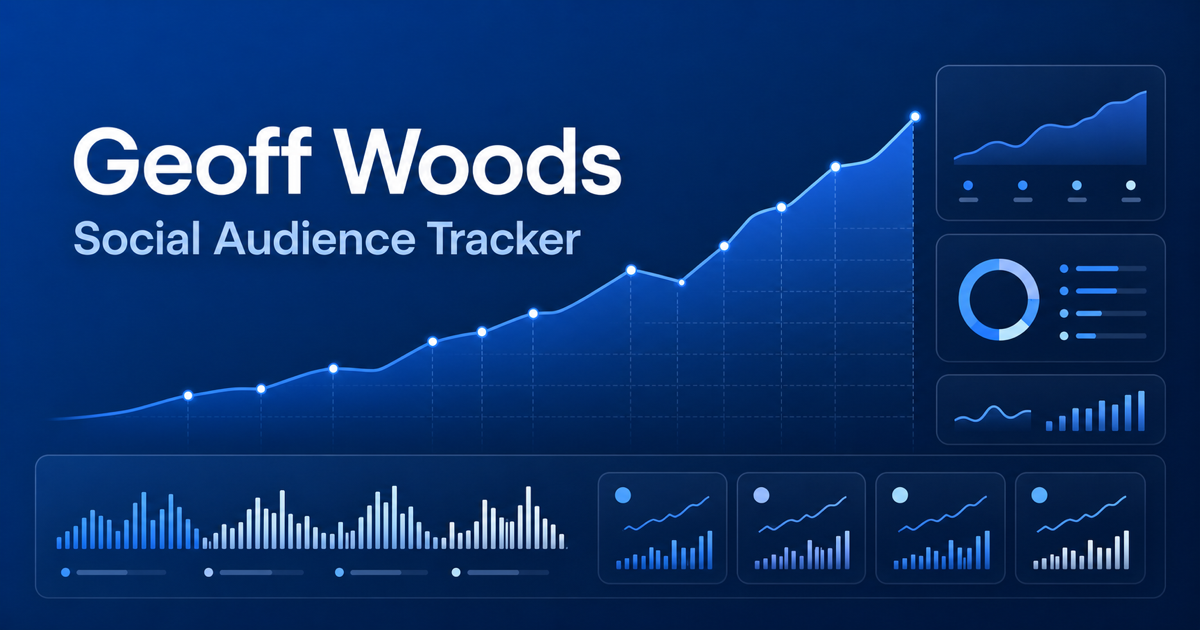
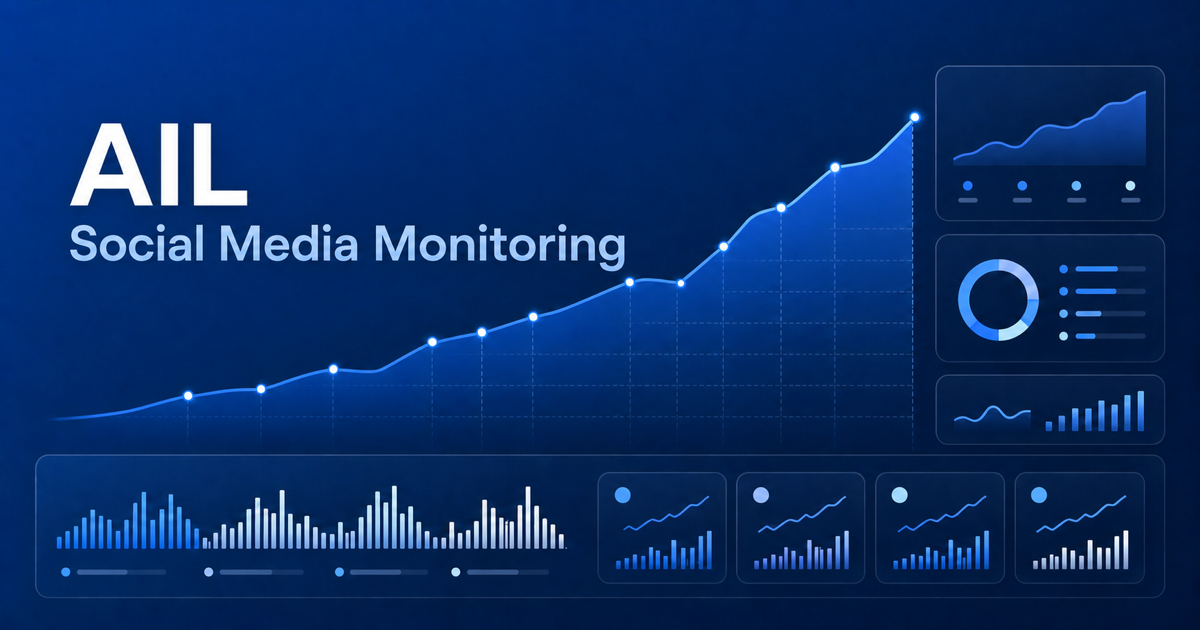
Rename site to AIL Social Media Monitoring

diff --git a/public/tracker.html b/public/tracker.html
@@ -6,25 +6,25 @@
     <meta name="theme-color" content="#111827" />
     <meta
       name="description"
-      content="Daily audience growth and content performance for Geoff Woods and AI Leadership."
+      content="Daily social audience growth, content performance, and earned-media monitoring for Geoff Woods and AI Leadership."
     />
     <meta property="og:type" content="website" />
-    <meta property="og:title" content="Geoff Woods — Social Audience Tracker" />
-    <meta property="og:description" content="Daily audience growth and content performance for Geoff Woods and AI Leadership." />
+    <meta property="og:title" content="AIL Social Media Monitoring" />
+    <meta property="og:description" content="Daily social audience growth, content performance, and earned-media monitoring for Geoff Woods and AI Leadership." />
     <meta property="og:image" content="https://geoff-woods-social-tracker.robin-ross-6445.chatgpt.site/og.png" />
     <meta name="twitter:card" content="summary_large_image" />
     <meta name="twitter:image" content="https://geoff-woods-social-tracker.robin-ross-6445.chatgpt.site/og.png" />
-    <title>Geoff Woods — Social Audience Tracker</title>
+    <title>AIL Social Media Monitoring</title>
     <link rel="stylesheet" href="./tracker.css" />
     <script src="./tracker.js" defer></script>
   </head>
   <body>
     <header class="site-header">
       <nav class="nav-shell" aria-label="Primary navigation">
-        <a class="brand" href="#top" aria-label="Geoff Woods Social Tracker home">
+        <a class="brand" href="#top" aria-label="AIL Social Media Monitoring home">
           <span class="brand-logo"><img src="./ail-mark.png" alt="" /></span>
           <span>
-            <strong>AI Leadership</strong>
+            <strong>AIL Social Media Monitoring</strong>
             <small>Geoff Woods · Audience Intelligence</small>
           </span>
         </a>
@@ -36,7 +36,7 @@
 
       <div class="hero" id="top">
         <div>
-          <p class="eyebrow">AI LEADERSHIP · AUDIENCE INTELLIGENCE</p>
+          <p class="eyebrow">AIL · SOCIAL MEDIA MONITORING</p>
           <h1>Know what’s growing.<br /><span>Know what caused it.</span></h1>
           <p class="hero-copy">
             A single daily view of audience momentum, publishing cadence, and the posts earning attention across every active channel.

diff --git a/app/layout.tsx b/app/layout.tsx
@@ -3,12 +3,12 @@ import "./globals.css";
 
 export const metadata: Metadata = {
   metadataBase: new URL("https://geoff-woods-social-tracker.robin-ross-6445.chatgpt.site"),
-  title: "Geoff Woods — Social Audience Tracker",
+  title: "AIL Social Media Monitoring",
   description:
-    "A daily view of audience growth and content performance across Geoff Woods and AI Leadership channels.",
+    "Daily social audience growth, content performance, and earned-media monitoring for Geoff Woods and AI Leadership.",
   openGraph: {
-    title: "Geoff Woods — Social Audience Tracker",
-    description: "Daily audience growth and content performance across Geoff Woods and AI Leadership channels.",
+    title: "AIL Social Media Monitoring",
+    description: "Daily social audience growth, content performance, and earned-media monitoring for Geoff Woods and AI Leadership.",
     images: [{ url: "/og.png", width: 1200, height: 630 }],
   },
 };

diff --git a/README.md b/README.md
@@ -1,6 +1,6 @@
-# Geoff Woods Social Audience Tracker
+# AIL Social Media Monitoring
 
-A static, mobile-friendly dashboard that keeps a dated archive of audience counts and recent post performance for Geoff Woods and AI Leadership. It is designed for GitHub Pages and includes a scheduled GitHub Actions workflow.
+A static, mobile-friendly dashboard that keeps a dated archive of audience counts, recent post performance, and earned-media mentions for Geoff Woods and AI Leadership. It is designed for GitHub Pages and includes a scheduled GitHub Actions workflow.
 
 The interface follows the [AITP design system](https://www.figma.com/design/mvypBgzGL0MnZnlqK9wFyI/AITP-DS--TailwindCSS-v4.1.6--?node-id=2006-6102): Leadership Blue, Deep Blue, Electric Blue, Geist product typography, tight headline hierarchy, and consistent product-like spacing.
 
